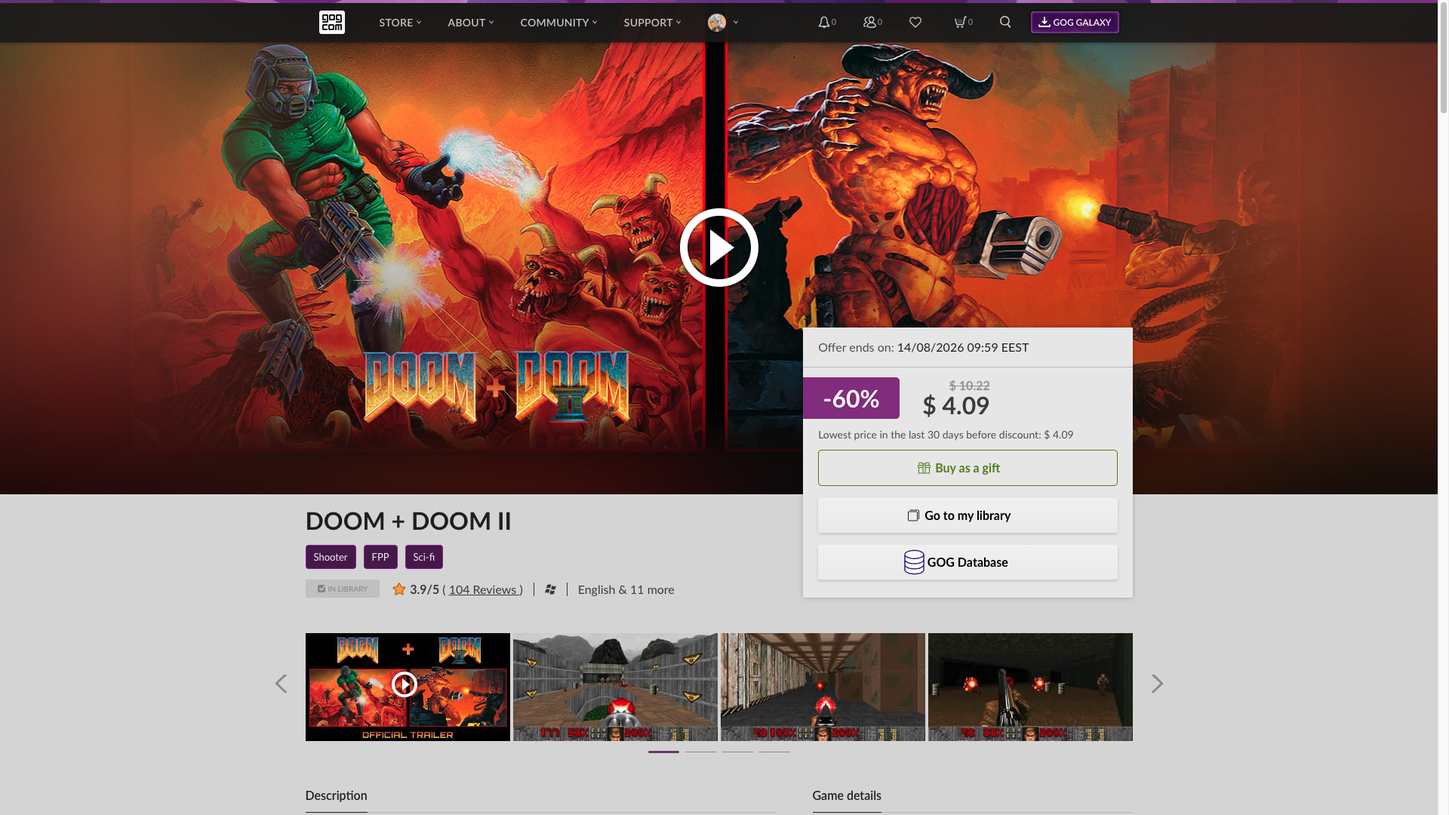
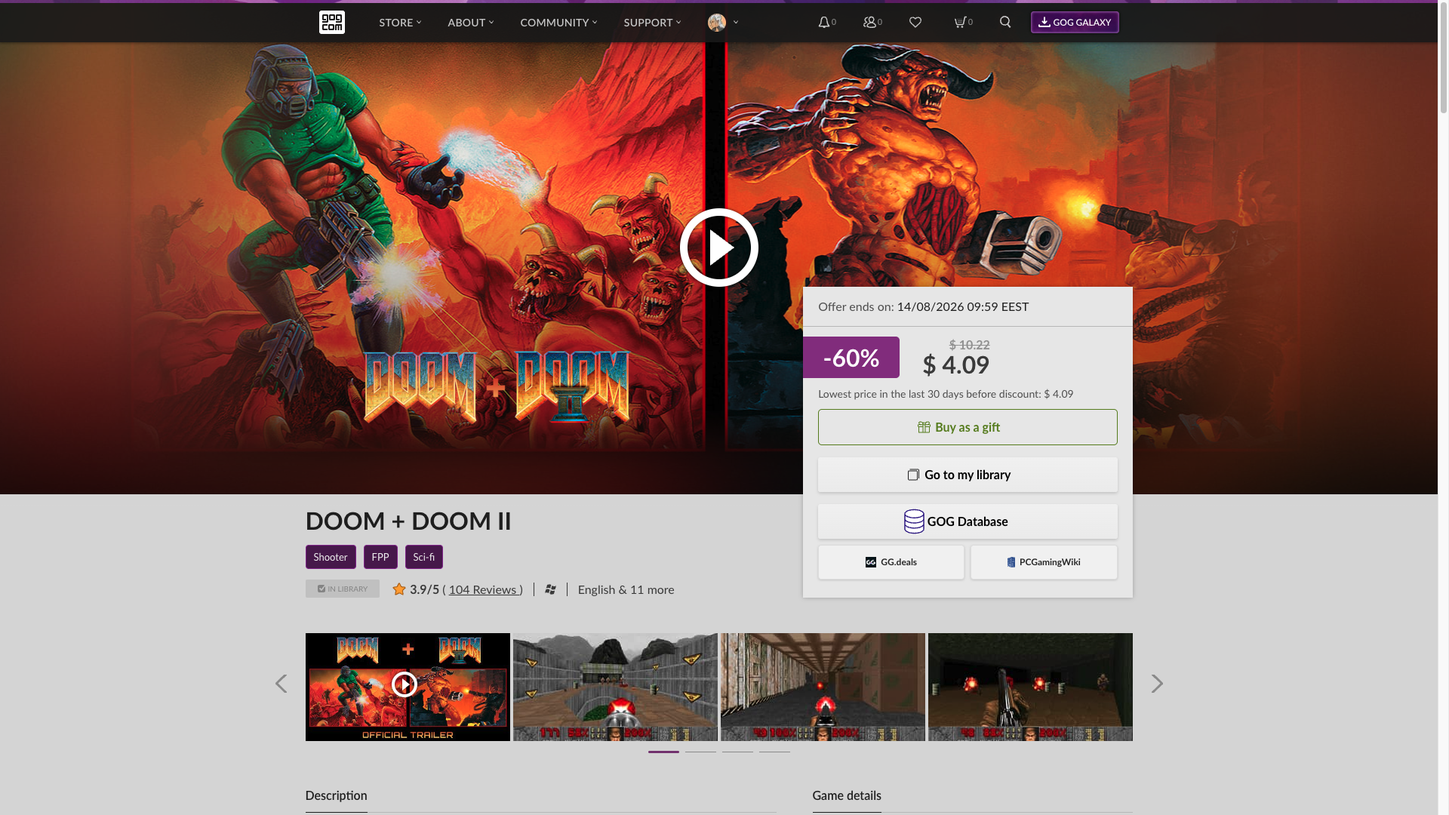
feat(gog-to-gogdb-button): botones a GG.deals con filtro de DRM de GOG y a PCGamingWiki en la ficha de juego — bump 1.2.0 -> 1.3.0

Changed region(s): [[0.5312, 0.3361, 0.7812, 0.7028]]

diff --git a/gog-to-gogdb-button.user.js b/gog-to-gogdb-button.user.js
@@ -1,8 +1,8 @@
 // ==UserScript==
 // @name         GOG to GOGDB Button
 // @namespace    https://gog.com/
-// @version      1.2.0
-// @description  Adds a GOG Database button (builds, product data, price history, store changes) to GOG.com game pages, styled like GOG's own buttons and linking to that exact product. Works on the store in any language, with or without the locale segment in the URL.
+// @version      1.3.0
+// @description  Adds three buttons to GOG.com game pages, styled like GOG's own. GOG Database links to that exact product (builds, product data, price history, store changes), built from the slug in the page. GG.deals searches the title among GOG-DRM deals, with no store-rating floor so nothing is hidden. PCGamingWiki searches the title for compatibility and fixes. The last two are title searches and say so in their tooltip. Works in any language, with or without the locale segment in the URL.
 // @author       g31w0fw0rld
 // @license      MIT
 // @match        https://www.gog.com/*
@@ -22,6 +22,67 @@
     const PRODUCT_SELECTOR = 'div.layout[card-product]';
     const CONTAINER_SELECTOR = '.product-actions-body';
     const ICON_SIZE = '35px';
+
+    // GG.deals filtra por DRM con un bitmask numérico en la query, no por nombre:
+    // 1 Steam, 8 GOG, 16 sin DRM, 32 otros, 128 Microsoft Store. Aquí interesa GOG,
+    // que es el DRM (o su ausencia) de todo lo que se vende en esta tienda.
+    // Va a /deals/ (la lista de ofertas), que es la que acepta el filtro de DRM;
+    // /games/ lo ignora. Y minRating=0 desactiva el mínimo de valoración de tienda
+    // que trae por defecto, que si no esconde parte de las ofertas.
+    const GGDEALS_SEARCH_URL = 'https://gg.deals/deals/';
+    const GGDEALS_GOG_DRM = '8';
+    const GGDEALS_MIN_RATING = '0';
+    const PCGW_SEARCH_URL = 'https://www.pcgamingwiki.com/w/index.php';
+
+    // Icono de GG.deals: favicon remoto (su CDN permite el hotlink). Si el CSP de
+    // GOG lo bloqueara, el onerror lo quita y queda solo la etiqueta.
+    const GGDEALS_ICON_URL = 'https://gg.deals/favicon.ico';
+    // Icono de PCGamingWiki: SVG inline. Su favicon.ico responde 403 al hotlink
+    // (Cloudflare) desde otros dominios, así que como <img> remoto no se ve; el SVG
+    // inline es markup y siempre pinta, sin depender del CSP ni del hotlink.
+    const PCGW_ICON_SVG = '<svg xmlns="http://www.w3.org/2000/svg" viewBox="0 0 827 1158" width="13" height="18" aria-hidden="true" style="vertical-align:middle;flex:0 0 auto"><path d="M0 166.2 448.9-1.1 827.4 56.1l0 1023.9 0.1 28.9L452.1 1158.9 0 1008.4z" fill="#365798"/><path d="M25.3 985.5 24.1 190.5 413 46.8 412 1107.6zM478.1 1108.6 478.3 52.3 788.1 94.3l0 975.8z" fill="#a5b6d9"/><path d="M215.5 737 41.5 727 40.3 420.5 215.9 404.1zm16.7-334.5 156.1-19.4-1.2 359.8-155.2-4.8zM39.3 399.9l0-194.4 176-57.4 1.2 232.1zm350.8-317.2 0.9 274.5-158.7 20.4 0-238zm-253 909.7 0-235.1 141.7 9.3 0 268.4zm247 80.8-17.3-6.4c3.8-22.5-18.9-31.9-19.1-5.7l-18.7-5.5c-0.9-22.1-13.9-31.7-21.2-6.8l-9.7-3-0.6-277.7 12.3 0.9c-4.3 27.5 23.5 28.2 20.3 1.7L350.4 772c-4.4 28.6 23.2 28.9 20.4 1.3l12.7 0.8zM42.8 751.1l82.2 5.9-0.5 108-81.9-11.2zm83.1 129.3-0.9 110.4-82.7-20.2 0-102.4zM494.3 70l278.6 36.6 0 950-278.3 35.1z" fill="#365798"/><path d="m279 507.5c-0.1-5.1 0-10 3.2-14.2 6 0.2 4.9 9.7 5 14.3 10.3 5.1 4.9-10.8 10.2-15.3 7.6-0.8-0.6 16 6.9 15.8 4.9-0.1 3.9-2.4 3.8-6.7-0.1-3.9 0.4-7.8 3.8-10.3 8.2 3.1 0.8 18.2 11.2 15.8 0-6.4-1-14.2 5.8-17.6 2.6 5.2-0.1 14.8 5.4 16.1 7.4 1.7 8.4 3.6 10.2 10.5 0.8 3.1-0.4 4.6 2.8 6.4 3.5 2 7.6 1.4 7.7 6.1 0.1 6.4-2.7 5.5-7.6 5.5-1.8 0-2.4 3.4-2.5 4.7-0.4 4.7 0.4 5.7 5 7 5.9 1.7 4.9 3.3 4.9 8.7 0 2.7 0.5 1.2-3.1 1.9-5.7 1.1-7 0.3-6.7 6.8 0.4 7.8 13.4 1.4 9.7 12.6-1.6 4.8-9.5 1.1-9.5 5.3 0 5.3-1.1 7.7 5.4 8.2 6.4 0.5 6 9.1 0.4 11-3.4 1.2-4.6-0.1-5.8 4-1.2 4.1-1.1 8.4-2.6 12.5-6.1 4.5-11.6-1.7-11.6 8.4 0 2.7-0.6 4.7-1.1 7.3-0.9 5-2.2 0.7-5.8 1.8-1-1.2 0-7.9 0-9.5 0-4.7-1.6-5.8-7-5.4-0.3 5.8-0.2 12-4.9 16.2-2.9-1.9-4-4.8-4.2-8.1-0.3-6.5 0.2-6.7-6.5-8.3-1.2 2.9-2 11.4-1.5 14.5-5.2 2.6-6-5.4-6-8.6 0-2.7 1.1-5.7-2.3-6.7-3.4-0.9-4.6 0.8-4.7 3.9-0.2 6.1-0.5 8.8-5.3 12.2-1.9-5.4-0.3-14.7-6.6-16.4-7-1.8-7.9-6.9-8-13.6-0.1-7.3-8.9-0.3-8.9-8.2 0-0.8-0.6-4.9 0-5.5 2.9-2.1 5.8 1.2 8.5 0.1 1.3-3.6 1.8-9-2.1-9.9-4-0.9-7.8-1.4-6.9-6 1.1-5.7 0.1-5.4 6.3-5.8 4.7-0.3 3-5.2 3.1-8.4-6.2-2.9-8.8 0.8-8.8-7.4 0-5.6-0.4-5.1 5.2-5.1 4.8 0 3.4-1.7 3.4-6.3 0-5.1-9.2-0.6-9.6-7.6-0.2-3 1-5.6 3.9-6.7 5.1-2 5.7-2.3 5.9-7.8 0.3-8 5.6-8.9 12-12.1l0 0 0 0zM88.3 368.3l24.3-92.2-15.7 7.5 21.6-79 25.5-7.3-19.1 53.1 19.2-10.3-55.7 128.3 0 0z" fill="#a5b6d9"/><path d="m278.8 317.9c1.2-3.2 2.5-6.5 3.8-9.9 13.8 5.9 26.4 10.2 40.6 1.9 13.7-8 22.8-24.3 28-38.8 10.2-28.4 10.2-66.8-8.3-91.8-22.5-30.5-54.5-14.5-69.8 13.9-4.7 8.8-11.2 31.3-12.1 45.3-0.5 6.9-0.2 14.1 0.8 21.3 1 8.1 5.2 16.5 4.2 24.7-0.3 2.5-1.8 4.1-4.6 4.6-16.7-28-7.6-72.9 4.9-100.6 12.5-27.6 47.9-55.5 75.9-29 25.7 24.2 28.2 68.1 21.3 100.3-6.2 28.8-26 71.4-61.9 68.2-6.4-0.6-19.1-3.8-22.7-10l0 0zM299.3 272c-3.2-11.6 11.5-19.5 14.8-28.4 1.9-5.2-0.1-9.6-2.2-14-4.9-2.6-9-1.1-10.8 4-3.2 8.9-6.5 14.9-12.6 22.1-3.3-13.7-1.4-29.1 6.6-40.9 4.3-6.3 12.9-9.4 19.4-6.9 20.5 7.8 14.2 42.7 5.3 56.4-4.7 7.3-12.7 7.6-20.5 7.6L299.3 272zm3.4-25.8c0.5 0.7 0.5 1.4 0.2 2-9.4 21.3-18.7 42.6-28.2 64-0.9-0.4-1.4-0.4-1.7-0.7-3.3-3.9-5.6-8.5-7.8-13.1-0.9-1.8 0.1-3.6 1.2-5.1l32.8-43.7c0.9-1.3 2-2.6 3.4-3.4l0 0z" fill="#a5b6d8"/><path d="m188.7 921.7c-6.1 11.9-4.4 25.1-6 38-9.7-2.4-16.7-21.7-18.6-30 1.7-9.9 6.9-17.2 12.9-24.9 2.8-3.6 3.7-7.2 1.9-11.4-0.7-1.6-0.6-3.6-2-4.9-8.7 1.5-13.9 8.2-19.9 14-6.7-7-5.2-33.4 0.2-41.1 8.4-1.5 15.8 1 22.6 5.8 5.3-5.2 5.6-10.3 0.9-15.7-3.6-4.1-14.7-8.9-16.7-13.1-1.6-6.3 10.2-27.5 17.3-27.2 7.8 11.5 12.4 24.5 15 38.1 2.7 1.1 5.1 2.1 8.2 1.5 1.6-15.5-1.9-30.3-6.8-44.8 0.5-0.5 0.8-0.9 1-0.9 8.6 0.6 16.8 2.3 23.4 8.6 14.9 14.2-11.5 41.7 0.4 58.4 10.7-10.3 10.5-23.1 18.6-34 8 10.3 15 31 13.7 44.1-6.9 8.3-12.4 13-28.9 14.2 0.5 3.7-1.8 7.2-0.8 11.5 8.8 9.4 18.5 7.9 30.1 7.2 1.6 8.2-6.7 33.6-12.9 39.7-12.6-5.7-19.1-17.9-26.1-29.1-2.5 1.9-4.6 3.7-6.4 6.1 1.7 12.9 18 29.3 15.9 40.7-5.5 2.6-11.4 4.3-17.7 3.4-6.2-0.9-8.7-4.3-10.2-10.9-3.3-14.7 3.2-32.8-9.2-43.3zm118.5 22.1 0-63.8 67.8 10.9 0 67.4zM307.1 804.2 375 811.3 375 878.1 307.1 868.2zm67.7 165.5 0 66.8-67.6-18.6 0-63.6zm-320.5-31.7 0-28.9 13.7 2 16.5-16.6 0.7 67.6-16.3-20.9z" fill="#a5b6d9"/><path d="m89.1 914.4c1.4-0.6 2.3-0.5 3.4-0.2 2.8 6.5 3.9 13.4 3.6 20.5-0.1 2.7-1.1 5.1-1.7 7.6-0.5 1.9-1.8 3-3.4 3.9-1.3-1.3-0.9-2.5-0.6-3.8 0.8-3.7 1.6-7.3 1.7-11.1 0.2-5.8-1.6-11.2-2.9-16.9l0 0 0 0zm7 42.4c-0.3-3.3 0.9-6.2 1.6-9.1 1-4.4 2.5-8.8 3.1-13.2 0.8-5.6-1-11-2.4-16.4-0.7-2.5-1.5-5-2.2-7.5-0.4-1.6-0.7-3.1 0.2-4.5 1.3-0.1 1.8 0.6 2.1 1.3 2.1 4.3 3.6 8.6 4.5 13.3 1 5.5 0.5 10.9 0.9 16.3 0.3 3.5-0.8 6.9-1.3 10.2-0.6 3.8-2.6 7.4-6.6 9.6l0 0zm7.6 10.4c-1.9-3.7-1.4-6.5-0.1-9.8 3.1-8.1 5.9-16.4 5.3-25.2-0.5-7.7-1.8-15.2-4.6-22.4-1.2-3-2.3-6.1-3.3-9 0.8-1.2 1.7-2 3.4-1.6 1.8 4.1 3.9 8.3 5.1 12.8 5 19 5 37.4-5.7 55.3l0 0z" fill="#a5b6d9"/><path d="m598.7 1047.1-70.3 8.4-0.2-378.8 70.5-3.8zM688.5 533.1c-11 50.3-65.8 45.6-78.3 2.8l-92.4 3.1-0.2-67.9 89.4-3.3c22.8-54 64.5-46.2 81.8 0.2l66.2 0.4 1.6 61.8zm-172.4-237.1 0-24 241.7 7.5 0.1 19.4z" fill="#a5b6d9"/><path d="m52.3 827.5 62.6 9.7-19.2-43.4-8.2 15-13.4-29.3-21.8 48.1zM116.4 788c0 4.4-3.5 7.9-7.9 7.9-4.4 0-7.9-3.5-7.9-7.9 0-4.4 3.5-7.9 7.9-7.9 4.4 0 7.9 3.5 7.9 7.9z" fill="#a5b6d9"/><ellipse cx="649.4" cy="501.8" rx="31" ry="51.8" fill="#365798"/><path d="m177.7 627.1c-1.8 3-1.6 6.7 0.4 9.3l-26.3 40 6.6-0.1 25-36.7c3.2 0.6 6.6-0.9 8.5-3.8 2.4-3.9 1.2-9-2.7-11.4-3.9-2.4-9-1.2-11.5 2.7zm-110.8 29.7-9.7 12.9 4.6 4.3 7.9-11 7.1 0.3c0.4 0.7 0.9 1.4 1.5 2 3.3 3.3 8.6 3.3 11.8 0 3.3-3.3 3.3-8.6 0-11.8-3.3-3.3-8.6-3.3-11.8 0-1 1-1.7 2.3-2.1 3.6zm20.1-68.7c-4.4 0-8 3.6-8 8 0 4.4 3.6 8 8 8 3.7 0 6.8-2.5 7.7-6l44.5 1.3 17.4 21.5c-0.2 0.8-0.4 1.6-0.4 2.4 0 4.6 3.8 8.4 8.4 8.4 4.6 0 8.4-3.8 8.4-8.4 0-4.6-3.8-8.4-8.4-8.4-1.5 0-2.9 0.4-4.1 1.1l-18.9-22.9-48-1.3c-1.4-2.2-3.9-3.7-6.8-3.7zm13.5 27c-4.6 0.1-8.3 4-8.1 8.6 0.1 4.6 4 8.3 8.6 8.1 3.3-0.1 6-2.1 7.3-4.9l22.2-0.5c1.4 2.9 4.4 4.8 7.8 4.7 4.6-0.1 8.3-4 8.1-8.6-0.1-4.6-4-8.3-8.6-8.1-3.6 0.1-6.6 2.5-7.7 5.7l-21.5 0.5c-1.2-3.3-4.4-5.7-8.1-5.6zm-26 16.7c0 4.4-3.6 8-8 8-4.4 0-8-3.6-8-8 0-4.4 3.6-8 8-8 4.4 0 8 3.6 8 8zM87.6 476.5c-3.5 0.2-6.4 2.5-7.5 5.6l-22.6 1 0.3 6.2 22.6-1c1.4 3 4.4 5 7.9 4.9 4.6-0.2 8.1-4.1 7.9-8.7-0.2-4.6-4.1-8.2-8.7-8zm56.3 20c-4.6 0.1-8.3 4-8.1 8.6 0.1 4.6 4 8.3 8.6 8.1 3.3-0.1 6-2.1 7.3-4.9l25.3-0.7c1.4 2.9 4.4 4.8 7.8 4.7 4.6-0.1 8.3-4 8.1-8.6-0.1-4.6-4-8.3-8.6-8.1-3.6 0.1-6.6 2.5-7.7 5.7l-24.6 0.7c-1.2-3.3-4.4-5.7-8.1-5.6zm-44.4-30.4-4.1 4.7 19.8 17.1 80.9-3-0.5-6.2-78.3 2.8zm-41.6 51.7-0.2-6 68.2-4 71.4 103.9-5.3 3.3-70.1-101.1zm132.6 25.4c2.3-2.6 2.6-6.3 1.1-9.3l6.6-9.5 0.4-9-11.7 14.4c-3.1-1.1-6.7-0.2-9 2.4-3 3.5-2.7 8.7 0.8 11.7 3.5 3 8.7 2.7 11.8-0.8zm-32.3 0.4c2 2.9 5.5 4.1 8.7 3.3l30.7 44.3-0.1-9.8-25.5-38c1.8-2.8 1.8-6.4-0.2-9.3-2.6-3.8-7.8-4.7-11.6-2-3.8 2.6-4.7 7.8-2.1 11.6zm-34.8-9.6c-3.5 0.2-6.4 2.5-7.5 5.6l-57.2 2.9 0.3 6.2 57.2-2.9c1.4 3 4.4 5 7.9 4.9 4.6-0.2 8.1-4.1 7.9-8.7-0.2-4.6-4.1-8.2-8.7-8zm17.5 33-81.3 2 0.2 6.3 78.7-2 17.5 22.3c-0.2 0.8-0.4 1.6-0.4 2.4 0 4.6 3.8 8.4 8.4 8.4 4.6 0 8.4-3.8 8.4-8.4 0-4.6-3.8-8.4-8.4-8.4-1.5 0-2.9 0.4-4.1 1.1zM179.2 672.5c1.2 2.6 5 0.2 5.7 3.6-1 4.1-8.9 0.5-11.6 0.9-1.4-4.3 8.4-15.3 10.9-18.8 2.8-1.4 9.4 0 12.6 0 0.3 2.8 0.5 5.3-1.5 7.8-3.4 0.1-6.7-1.4-10.1-1.7-2 2.7-4 5.5-6 8.2zM67.3 604.9l-8.1 0 0-6.7c6.2 0 9.7-1.6 13.2 3.9 6.6 10.3 12.8 20.9 19.1 31.4 3.1 5.2 6.3 10.4 9.5 15.5 4.6 7.4 5.8 8 14.6 8.6 6.3 0.4 12.7 0.4 19.1 0.4 6.6 0 6.4-5.5 12.7-4.9 5.4 5.1 5.4 11.7 0 16.8-6 0.4-5.3-5.8-9.8-5.8l-19.2 0c-9.5 0-12.4 2.1-17.3-5.6-11.2-17.9-22.4-35.7-33.6-53.6z" fill="#a5b6d9"/><path d="m339.3 257.1c0 3.2-2.6 5.9-5.9 5.9-3.2 0-5.9-2.6-5.9-5.9 0-3.2 2.6-5.9 5.9-5.9 3.2 0 5.9 2.6 5.9 5.9zm14.4-13.7c0 3.2-2.6 5.9-5.9 5.9-3.2 0-5.9-2.6-5.9-5.9 0-3.2 2.6-5.9 5.9-5.9 3.2 0 5.9 2.6 5.9 5.9zm23 0c0 3.2-2.6 5.9-5.9 5.9-3.2 0-5.9-2.6-5.9-5.9 0-3.2 2.6-5.9 5.9-5.9 3.2 0 5.9 2.6 5.9 5.9zm-12.9 46.6c0 3.2-2.6 5.9-5.9 5.9-3.2 0-5.9-2.6-5.9-5.9 0-3.2 2.6-5.9 5.9-5.9 3.2 0 5.9 2.6 5.9 5.9zm14.7-11.5c0 3.2-2.6 5.9-5.9 5.9-3.2 0-5.9-2.6-5.9-5.9 0-3.2 2.6-5.9 5.9-5.9 3.2 0 5.9 2.6 5.9 5.9zm7.4-18.3c0 3.2-2.6 5.9-5.9 5.9-3.2 0-5.9-2.6-5.9-5.9 0-3.2 2.6-5.9 5.9-5.9 3.2 0 5.9 2.6 5.9 5.9z" transform="matrix(0.59478444,0,0,0.93466127,95.788817,-7.8295466)" fill="#365798"/></svg>';
+
+    const LINKS_CLASS = 'gogx-links';
+    const LINK_CLASS = 'gogx-link';
+    const ICON_CLASS = 'gogx-ico';
+    const STYLES_ID = 'gogx-styles';
+
+    // Fuentes del nombre del juego, en orden de preferencia. Como último recurso se
+    // usa el slug, que siempre está (es el que alimenta el botón de GOGDB): pierde
+    // la puntuación y las mayúsculas, pero como término de búsqueda sirve.
+    const TITLE_SELECTORS = ['h1.productcard-basics__title', '.productcard-basics__title', '.header__title', 'h1'];
+
+    // Limpieza del título antes de buscarlo fuera de GOG.
+    const TRADEMARK_REGEX = /[™®©]/g;
+    // Prefijo y cola que GOG añade en og:title y document.title según el idioma
+    // ("Buy DOOM + DOOM II" / "DOOM + DOOM II - GOG.com").
+    const TITLE_PREFIX_REGEX = /^\s*(?:comprar|compra|buy|acheter|kaufen|acquista|koop|köp|kup)\s+/i;
+    const TITLE_SUFFIX_REGEX = /\s*(?:[-–|]\s*|\s+(?:on|en|sur|auf|su|em)\s+)GOG\.com.*$/i;
+    // Diacríticos combinados, para quitarlos tras normalizar a NFD.
+    const DIACRITICS_REGEX = /[\u0300-\u036f]/g;
+
+    // =============================================
+    // IDIOMA (solo para los tooltips: español vs. inglés)
+    // =============================================
+    // Manda el lang del documento: GOG sirve la ficha en el idioma que el usuario
+    // eligió en la tienda, así que es su preferencia y no la UI del sitio.
+    function detectLang() {
+        const docLang = (document.documentElement.getAttribute('lang') || '').toLowerCase();
+        const navLang = (navigator.language || navigator.languages?.[0] || '').toLowerCase();
+        return (docLang || navLang).startsWith('es') ? 'es' : 'en';
+    }
+
+    const I18N = {
+        es: {
+            ggTip: 'Busca el título en GG.deals con el filtro de DRM de GOG. Al buscar por nombre, puede no dar con el juego exacto.',
+            pcgwTip: 'Busca el título en PCGamingWiki (compatibilidad y arreglos). Al buscar por nombre, puede no dar con el artículo exacto.'
+        },
+        en: {
+            ggTip: 'Searches the title on GG.deals with the GOG DRM filter. Being a title search, it may not hit the exact game.',
+            pcgwTip: 'Searches the title on PCGamingWiki (compatibility and fixes). Being a title search, it may not hit the exact article.'
+        }
+    };
+    const t = I18N[detectLang()];
 
     // El segmento de idioma es OPCIONAL: GOG sirve la misma ficha como
     // /game/slug, /en/game/slug, /de/game/slug, /zh-Hans/game/slug… Por eso el
@@ -106,6 +167,157 @@
     }
 
     /**
+     * Nombre del juego para las búsquedas externas. Prueba los encabezados de la
+     * ficha, cae a og:title y document.title —a los que hay que quitarles el
+     * "… - GOG.com"— y, si nada de eso hubiera, reconstruye algo legible desde el
+     * slug, que siempre está.
+     * @param {string} slug - Slug del producto en GOG, como respaldo final.
+     * @returns {string} Título limpio (nunca vacío si hay slug).
+     */
+    function getGameTitle(slug) {
+        const heading = TITLE_SELECTORS
+            .map((sel) => document.querySelector(sel)?.textContent)
+            .find((text) => text && text.trim());
+        const og = document.querySelector('meta[property="og:title"]')?.content;
+        const title = (heading || og || document.title || '')
+            .trim()
+            .replace(TITLE_PREFIX_REGEX, '')
+            .replace(TITLE_SUFFIX_REGEX, '')
+            .replace(TRADEMARK_REGEX, '')
+            .replace(/\s+/g, ' ')
+            .trim();
+        return title || (slug || '').replace(/[_-]+/g, ' ').trim();
+    }
+
+    /**
+     * Normaliza el título para la búsqueda de GG.deals quitando los acentos:
+     * GG.deals translitera en su índice, así que "Pokémon" se busca como "Pokemon".
+     * @param {string} title - Título limpio del juego.
+     * @returns {string} Título sin diacríticos.
+     */
+    function normalizeForGgDeals(title) {
+        return title.normalize('NFD').replace(DIACRITICS_REGEX, '');
+    }
+
+    /**
+     * Estilos de la fila de enlaces externos: dos botones tan altos como el de GOG
+     * Database, repartiéndose a partes iguales el ancho de la columna de compra.
+     * El aspecto se define aquí y NO con las clases de GOG: su `button` no viste un
+     * <a> (queda como texto suelto). Se replica el botón claro de su tarjeta de
+     * compra, con su sombra.
+     * La altura llega como variable desde matchSiblingHeight(), medida del botón de
+     * GOG Database: la suya la pone `button--big`, así que cualquier valor fijo aquí
+     * se desalinearía en cuanto GOG cambie su CSS. El 40px es solo el respaldo.
+     */
+    function injectStyles() {
+        if (document.getElementById(STYLES_ID)) return;
+        const style = document.createElement('style');
+        style.id = STYLES_ID;
+        style.textContent = `
+            .${LINKS_CLASS} { display: flex; align-items: stretch; gap: 8px; margin-top: 8px; }
+            .${LINKS_CLASS} .${LINK_CLASS} {
+                flex: 1 1 0; min-width: 0; box-sizing: border-box;
+                min-height: var(--gogx-h, 40px);
+                display: inline-flex; align-items: center; justify-content: center; gap: 6px;
+                padding: 5px 8px; border: 1px solid rgba(0, 0, 0, .08); border-radius: 4px;
+                background: #f2f2f2; color: #2b2b2b;
+                box-shadow: 0 1px 3px rgba(0, 0, 0, .15);
+                font-size: 12px; font-weight: 700; line-height: 1.3;
+                text-decoration: none; white-space: nowrap; overflow: hidden;
+                cursor: pointer; transition: background 150ms ease, box-shadow 150ms ease;
+            }
+            .${LINKS_CLASS} .${LINK_CLASS}:hover {
+                background: #e4e4e4; color: #2b2b2b; text-decoration: none;
+                box-shadow: 0 2px 6px rgba(0, 0, 0, .22);
+            }
+            .${ICON_CLASS} { display: inline-flex; align-items: center; flex: 0 0 auto; }
+            img.${ICON_CLASS} { width: 14px; height: 14px; object-fit: contain; }
+            /* El logo de PCGamingWiki es más alto que ancho (viewBox 827x1158): se
+               fija el alto y se deja el ancho automático para no deformarlo. */
+            .${ICON_CLASS} svg { height: 14px; width: auto; display: block; }
+        `;
+        (document.head || document.documentElement).appendChild(style);
+    }
+
+    /**
+     * Crea un enlace con el icono dentro y a la izquierda de la etiqueta, con el
+     * aspecto que le da injectStyles(). Es un <a> real, así que funcionan el clic
+     * central y "copiar dirección del enlace".
+     * @param {{ label: string, url: string, iconSvg?: string, iconUrl?: string, tooltip: string }} opts
+     * @returns {HTMLAnchorElement} El enlace listo para insertar.
+     */
+    function createLinkButton({ label, url, iconSvg, iconUrl, tooltip }) {
+        const a = document.createElement('a');
+        a.className = LINK_CLASS;
+        a.href = url;
+        a.target = '_blank';
+        a.rel = 'nofollow noopener external';
+        a.title = tooltip;
+
+        if (iconSvg) {
+            const box = document.createElement('span');
+            box.className = ICON_CLASS;
+            box.innerHTML = iconSvg;
+            a.appendChild(box);
+        } else if (iconUrl) {
+            const img = document.createElement('img');
+            img.className = ICON_CLASS;
+            img.src = iconUrl;
+            img.alt = '';
+            img.addEventListener('error', () => img.remove());  // sin icono si el CSP lo bloquea
+            a.appendChild(img);
+        }
+        a.appendChild(document.createTextNode(label));
+        return a;
+    }
+
+    /**
+     * Fila con los enlaces a GG.deals y PCGamingWiki. Lleva la misma marca de slug
+     * que el botón de GOGDB para que removeStaleButtons() la limpie al navegar por
+     * la SPA; si no, quedaría la fila del producto anterior.
+     * @param {string} slug - Slug del producto en GOG.
+     * @returns {HTMLDivElement} El contenedor con los dos enlaces.
+     */
+    function createExternalLinks(slug) {
+        const title = getGameTitle(slug);
+        const box = document.createElement('div');
+        box.className = LINKS_CLASS;
+        box.setAttribute(BUTTON_ATTR, slug);
+
+        const ggParams = new URLSearchParams({
+            drm: GGDEALS_GOG_DRM,
+            minRating: GGDEALS_MIN_RATING,
+            title: normalizeForGgDeals(title)
+        });
+        box.appendChild(createLinkButton({
+            label: 'GG.deals',
+            url: `${GGDEALS_SEARCH_URL}?${ggParams}`,
+            iconUrl: GGDEALS_ICON_URL,
+            tooltip: t.ggTip
+        }));
+        box.appendChild(createLinkButton({
+            label: 'PCGamingWiki',
+            url: `${PCGW_SEARCH_URL}?${new URLSearchParams({ search: title })}`,
+            iconSvg: PCGW_ICON_SVG,
+            tooltip: t.pcgwTip
+        }));
+        return box;
+    }
+
+    /**
+     * Iguala la altura de la fila a la del botón hermano, midiéndola ya en el DOM.
+     * Silencioso si no se puede medir (la fila se queda con el respaldo del CSS).
+     * @param {HTMLElement} links - Fila de enlaces externos.
+     * @param {HTMLElement} sibling - Botón cuya altura hay que copiar.
+     */
+    function matchSiblingHeight(links, sibling) {
+        try {
+            const h = sibling.offsetHeight;
+            if (h > 0) links.style.setProperty('--gogx-h', `${h}px`);
+        } catch (e) { /* sin medida: manda el valor por defecto del CSS */ }
+    }
+
+    /**
      * Elimina los botones ya inyectados cuyo slug no sea el indicado (o todos,
      * si no se pasa ninguno). Evita que tras navegar dentro de la SPA quede en
      * pantalla un botón apuntando al producto anterior.
@@ -135,7 +347,12 @@
         removeStaleButtons(slug);
         if (container.querySelector(`[${BUTTON_ATTR}="${slug}"]`)) return;
 
-        container.appendChild(createGOGDBButton(slug));
+        injectStyles();
+        const gogdbButton = createGOGDBButton(slug);
+        const links = createExternalLinks(slug);
+        container.appendChild(gogdbButton);
+        container.appendChild(links);
+        matchSiblingHeight(links, gogdbButton);
     }
 
     /**

diff --git a/README.md b/README.md
@@ -1,24 +1,32 @@
 # GOG to GOGDB Button
 
-Tampermonkey userscript that adds a GOGDB button to GOG.com game pages. / Userscript de Tampermonkey que añade un botón a GOGDB en las páginas de juego de GOG.com.
+Tampermonkey userscript that adds GOGDB, GG.deals and PCGamingWiki buttons to GOG.com game pages. / Userscript de Tampermonkey que añade botones a GOGDB, GG.deals y PCGamingWiki en las páginas de juego de GOG.com.
 
-![The GOG Database button below the purchase options on a GOG game page](docs/screenshot-game.png)
+![The GOG Database button and, below it, GG.deals and PCGamingWiki sharing a row at the end of the purchase column on a GOG game page](docs/screenshot-game.png)
 
-*Game page: the button closes the purchase column, styled like GOG's own buttons and with the GOGDB logo to its left. / Página de juego: el botón cierra la columna de compra, con el estilo de los botones propios de GOG y el logo de GOGDB a su izquierda.*
+*Game page: the three buttons close the purchase column, styled like GOG's own. GOG Database takes the full width; GG.deals and PCGamingWiki split the row below it, at the same height. / Página de juego: los tres botones cierran la columna de compra, con el estilo de los propios de GOG. GOG Database ocupa todo el ancho; GG.deals y PCGamingWiki se reparten la fila de abajo, a la misma altura.*
 
 ## English
 
 ### What it does
 
-- Adds a **GOG Database** button to **[GOGDB](https://www.gogdb.org/)** — builds, product data, price history and store changes — on GOG.com game pages.
-- It links to **that exact product**. The slug comes from the page's own `card-product` attribute, so the button lands on the game's GOGDB entry rather than on a search.
-- Built with GOG's own `button--big` classes so it matches "Add to cart" instead of looking bolted on, and it carries the GOGDB logo, positioned to the left of the label.
-- It closes the purchase column: whatever GOG shows there — buy, add to cart or "Go to my library" if you already own the game — the button sits below it.
-- Opens in a new tab, leaving the store page as you left it.
-- Works whatever language you browse the store in: it recognises the game page with or without the locale segment in the URL (`/game/…`, `/en/game/…`, `/de/game/…`, `/zh-Hans/game/…`), and nothing it looks for on the page depends on the text being English.
-- GOG is a single-page app, so the button is reinjected when you navigate from one game to another without a full reload.
+Adds three buttons to the purchase column of GOG.com game pages:
 
-**Language:** none needed — the button reads `GOG Database`, a brand name, in every language.
+- **[GOGDB](https://www.gogdb.org/)** — builds, product data, price history and store changes. It links to **that exact product**: the slug comes from the page's own `card-product` attribute, so the button lands on the game's GOGDB entry rather than on a search.
+- **[GG.deals](https://gg.deals/)** — where else that game is on sale, and for how much. It searches **by title among GOG-DRM deals only**, since that is the DRM (or lack of it) of everything sold in this store, and it turns off the default store-rating floor so no offer is hidden from you.
+- **[PCGamingWiki](https://www.pcgamingwiki.com/)** — compatibility, fixes, ultrawide and frame-rate notes. It searches by title.
+
+Details worth knowing:
+
+- **The last two are title searches, so they can miss**, and each says exactly that in its tooltip. The GOGDB button carries no tooltip: it is built from the slug and cannot miss, and the brand name already says where it goes.
+- **The title is read from the page**, cleaned of GOG's wrapping — the `Buy …` prefix, the `… - GOG.com` tail and trademark symbols. If none of that can be read, the slug itself is turned back into words, so the buttons never point at an empty search. Accents are dropped for GG.deals only, because it transliterates in its own index, and kept for PCGamingWiki, whose articles keep them.
+- **Placement follows GOG's own column:** whatever GOG shows there — buy, add to cart or "Go to my library" if you already own the game — GOG Database sits below it, and the other two form their own row under that, matching its height.
+- The three read as native GOG buttons rather than an add-on. GG.deals and PCGamingWiki are real links, so middle-click and *copy link address* work.
+- They open in a new tab, leaving the store page as you left it.
+- Works whatever language you browse the store in: it recognises the game page with or without the locale segment in the URL (`/game/…`, `/en/game/…`, `/de/game/…`, `/zh-Hans/game/…`), and nothing it looks for on the page depends on the text being English.
+- GOG is a single-page app, so the buttons are reinjected when you navigate from one game to another without a full reload — and the previous game's ones are removed, so you never get a button pointing at what you were looking at before.
+
+**Language:** the labels are brand names, the same in every language. The two tooltips are in **English or Spanish**, picked from the language GOG is serving the page in.
 
 **Install:**
 1. Install [Tampermonkey](https://www.tampermonkey.net/).
@@ -30,15 +38,23 @@ Tampermonkey userscript that adds a GOGDB button to GOG.com game pages. / Usersc
 
 ### Qué hace
 
-- Añade un botón **GOG Database** hacia **[GOGDB](https://www.gogdb.org/)** —builds, datos de producto, historial de precios y cambios en la tienda— en las páginas de juego de GOG.com.
-- Enlaza a **ese producto concreto**. El slug sale del propio atributo `card-product` de la página, así que el botón cae en la ficha del juego en GOGDB y no en una búsqueda.
-- Construido con las clases propias de GOG (`button--big`) para que combine con "Add to cart" en vez de parecer un añadido, y lleva el logo de GOGDB colocado a la izquierda de la etiqueta.
-- Cierra la columna de compra: sea lo que sea que muestre GOG ahí —comprar, añadir al carrito o "Go to my library" si ya tienes el juego—, el botón queda debajo.
-- Abre en una pestaña nueva y deja la página de la tienda como estaba.
-- Funciona en cualquier idioma de la tienda: reconoce la ficha de juego con o sin el segmento de idioma en la URL (`/game/…`, `/en/game/…`, `/de/game/…`, `/zh-Hans/game/…`), y nada de lo que busca en la página depende de que el texto esté en inglés.
-- GOG es una SPA, así que el botón se reinyecta al navegar de un juego a otro sin recarga completa.
+Añade tres botones en la columna de compra de las páginas de juego de GOG.com:
 
-**Idioma:** no hace falta — el botón dice `GOG Database`, que es una marca, en cualquier idioma.
+- **[GOGDB](https://www.gogdb.org/)** —builds, datos de producto, historial de precios y cambios en la tienda—. Enlaza a **ese producto concreto**: el slug sale del propio atributo `card-product` de la página, así que el botón cae en la ficha del juego en GOGDB y no en una búsqueda.
+- **[GG.deals](https://gg.deals/)** —en qué otras tiendas está de oferta ese juego, y a cuánto—. Busca **por título y solo entre ofertas con DRM de GOG**, que es el DRM (o su ausencia) de todo lo que se vende en esta tienda, y desactiva el mínimo de valoración de tienda que trae por defecto para que no te esconda ninguna oferta.
+- **[PCGamingWiki](https://www.pcgamingwiki.com/)** —compatibilidad, arreglos, ultrapanorámico y notas de frame rate—. Busca por título.
+
+Detalles que conviene saber:
+
+- **Los dos últimos buscan por nombre, así que pueden no acertar**, y cada uno lo dice tal cual en su tooltip. El de GOGDB no lleva tooltip: se construye con el slug y no puede fallar, y la marca ya dice a dónde va.
+- **El título se lee de la página** y se limpia de los adornos de GOG: el `Comprar …` del principio, la cola `… - GOG.com` y los símbolos de marca. Si no hubiera nada de eso legible, el propio slug se convierte de vuelta en palabras, así que los botones nunca apuntan a una búsqueda vacía. Los acentos se quitan solo para GG.deals, porque translitera en su índice, y se conservan para PCGamingWiki, cuyos artículos sí los llevan.
+- **La colocación respeta la columna de GOG:** sea lo que sea que muestre ahí —comprar, añadir al carrito o "Go to my library" si ya tienes el juego—, GOG Database queda debajo, y los otros dos forman su propia fila bajo él, a su misma altura.
+- Los tres parecen botones nativos de GOG y no un añadido. GG.deals y PCGamingWiki son enlaces de verdad, así que funcionan el clic central y *copiar dirección del enlace*.
+- Abren en una pestaña nueva y dejan la página de la tienda como estaba.
+- Funciona en cualquier idioma de la tienda: reconoce la ficha de juego con o sin el segmento de idioma en la URL (`/game/…`, `/en/game/…`, `/de/game/…`, `/zh-Hans/game/…`), y nada de lo que busca en la página depende de que el texto esté en inglés.
+- GOG es una SPA, así que los botones se reinyectan al navegar de un juego a otro sin recarga completa —y los del juego anterior se quitan, así que nunca te queda un botón apuntando a lo que estabas viendo antes—.
+
+**Idioma:** las etiquetas son marcas, iguales en cualquier idioma. Los dos tooltips están en **español o inglés**, según el idioma en el que GOG esté sirviendo la página.
 
 **Instalación:**
 1. Instala [Tampermonkey](https://www.tampermonkey.net/).
@@ -48,9 +64,9 @@ Tampermonkey userscript that adds a GOGDB button to GOG.com game pages. / Usersc
 
 ## Privacy / Privacidad
 
-**EN:** the script makes no network requests and stores nothing: it only reads from the page itself what it needs to build the link, and inserts the GOGDB button. It declares `@grant none`, so it has no access to the userscript manager's privileged APIs (storage, cross-origin requests). Nothing is sent to third parties or to the author, and you only visit GOGDB if you click the button.
+**EN:** the script stores nothing and sends nothing to third parties or to the author. From the page it reads only the product slug and the game title, both used to build the links. It declares `@grant none`, so it has no access to the userscript manager's privileged APIs (storage, cross-origin requests). Two requests do leave your browser, both for icons: the GOGDB logo from `gogdb.org` and the GG.deals favicon from `gg.deals`, so those two sites see a plain image request when the buttons are drawn — nothing about which game you are looking at. The PCGamingWiki logo is inline SVG and requests nothing. You only visit any of the three sites if you click.
 
-**ES:** el script no hace ninguna petición de red ni guarda nada: solo lee de la propia página los datos necesarios para construir el enlace e inserta el botón hacia GOGDB. Declara `@grant none`, así que no tiene acceso a las APIs privilegiadas del gestor de userscripts (almacenamiento, peticiones entre dominios). No se envía nada a terceros ni al autor, y solo visitas GOGDB si haces clic en el botón.
+**ES:** el script no guarda nada ni envía nada a terceros ni al autor. De la página lee solo el slug del producto y el título del juego, y con eso arma los enlaces. Declara `@grant none`, así que no tiene acceso a las APIs privilegiadas del gestor de userscripts (almacenamiento, peticiones entre dominios). Sí salen dos peticiones de tu navegador, las dos de iconos: el logo de GOGDB desde `gogdb.org` y el favicon de GG.deals desde `gg.deals`, así que esos dos sitios ven una petición de imagen corriente al dibujarse los botones —nada sobre qué juego estás viendo—. El logo de PCGamingWiki es SVG en línea y no pide nada. Solo visitas cualquiera de los tres sitios si haces clic.
 
 ## Support / Apoyar
 
